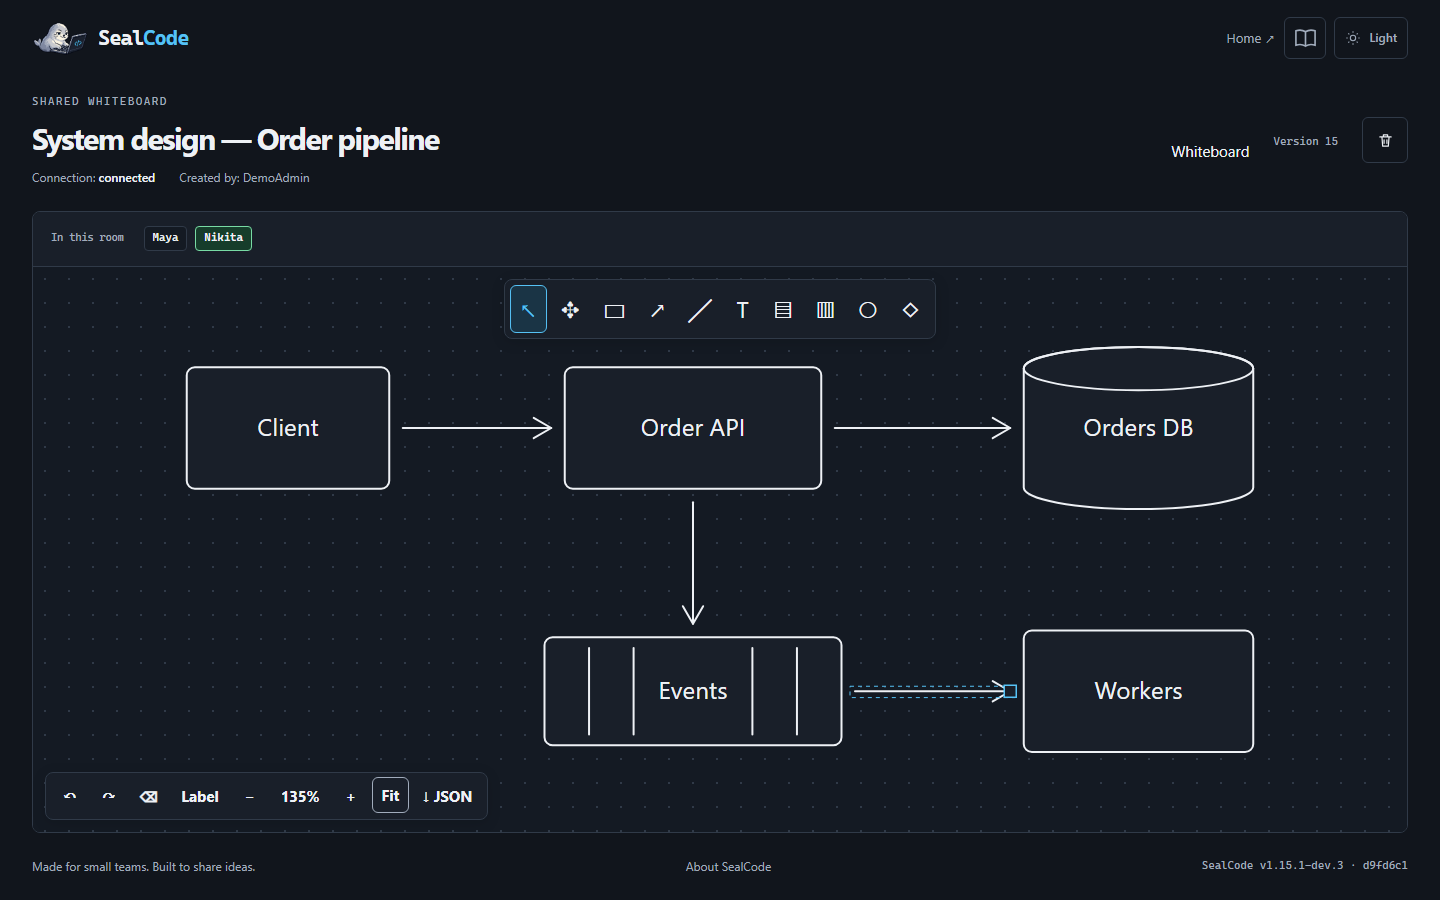
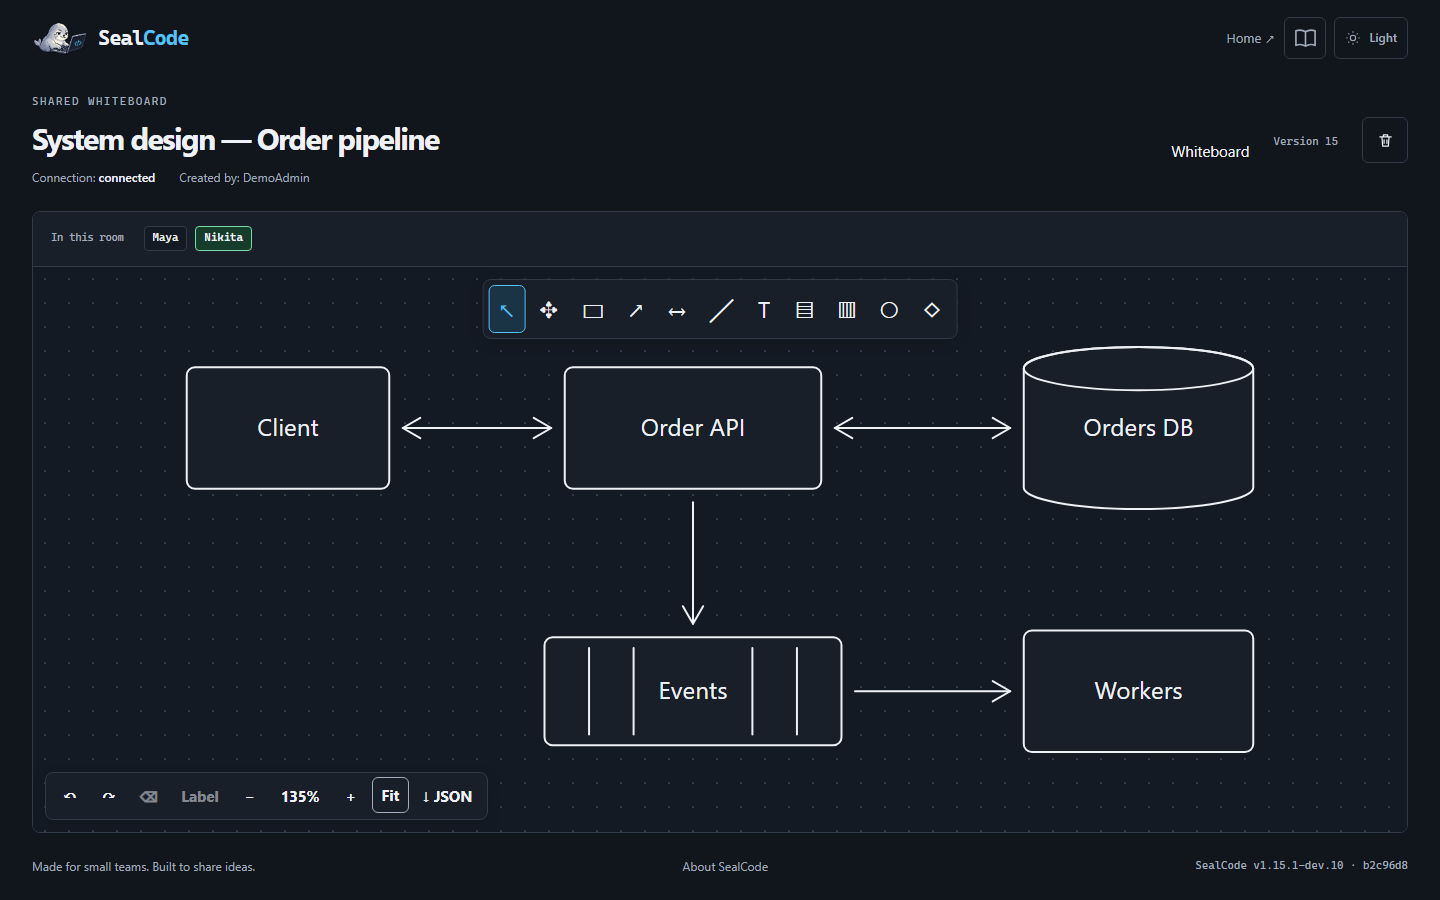
Refresh README whiteboard screenshots with bidirectional arrows

diff --git a/README.md b/README.md
@@ -74,14 +74,14 @@ cursors and typing, selection and copy indicators.
 
 Whiteboard rooms replace the code editor with an infinite diagram canvas and a
 drawing toolbar. The room header, participants and connection status stay
-familiar. Labels, arrows, database and queue symbols cover the essentials for
-system design interviews; the bottom controls provide undo/redo, deletion, zoom,
+familiar. Labels, one-way and bidirectional arrows, database and queue symbols
+cover the essentials for system design interviews; the bottom controls provide undo/redo, deletion, zoom,
 Fit and a local JSON download. See [Whiteboard rooms](#whiteboard-rooms) for
 shortcuts, collaboration behavior and current limitations.
 
 | Whiteboard (dark) | Whiteboard (light) |
 | --- | --- |
-| ![Shared order-processing diagram with client, API, database, queue and workers in dark theme](docs/images/whiteboard-dark.png) | ![The same labeled system-design diagram in light theme](docs/images/whiteboard-light.png) |
+| ![Shared order-processing diagram with bidirectional arrows between client, API and database in dark theme](docs/images/whiteboard-dark.png) | ![The same labeled system-design diagram with bidirectional arrows in light theme](docs/images/whiteboard-light.png) |
 
 <details>
 <summary>Mobile home and room management</summary>
@@ -97,7 +97,7 @@ shortcuts, collaboration behavior and current limitations.
 
 | Code room | Whiteboard |
 | --- | --- |
-| <img src="docs/images/room-mobile.png" alt="Mobile code room with language selector, participant presence and shared editor" width="280" /> | <img src="docs/images/whiteboard-mobile.png" alt="Mobile whiteboard with a fitted system-design diagram and drawing controls" width="280" /> |
+| <img src="docs/images/room-mobile.png" alt="Mobile code room with language selector, participant presence and shared editor" width="280" /> | <img src="docs/images/whiteboard-mobile.png" alt="Mobile whiteboard with bidirectional arrows in the fitted system-design diagram and drawing controls" width="280" /> |
 
 </details>
 
